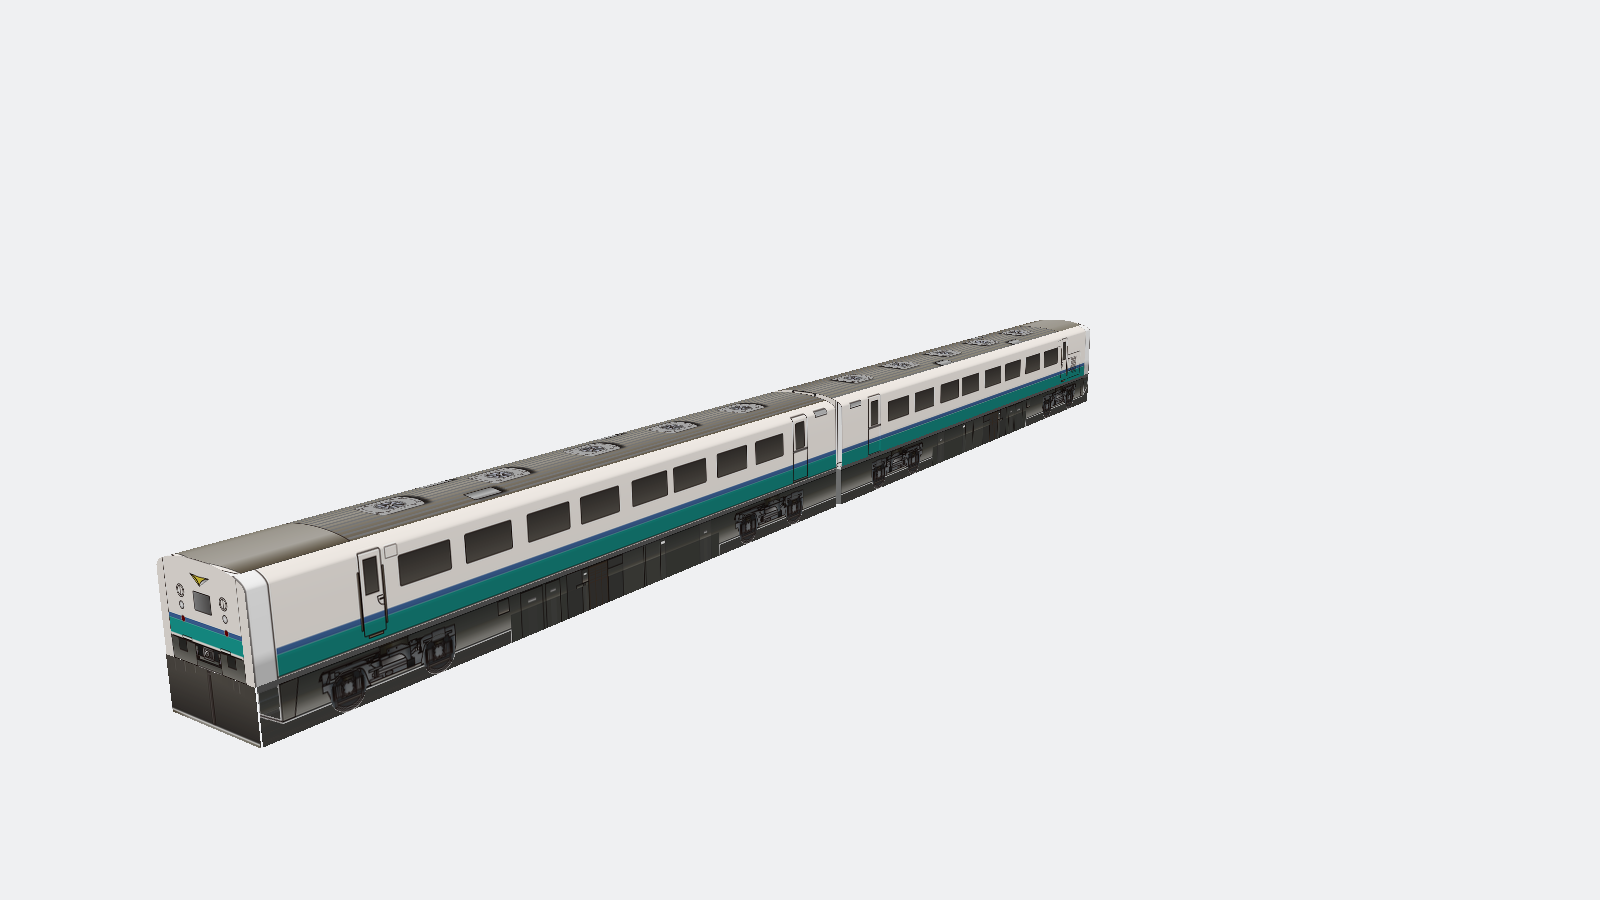
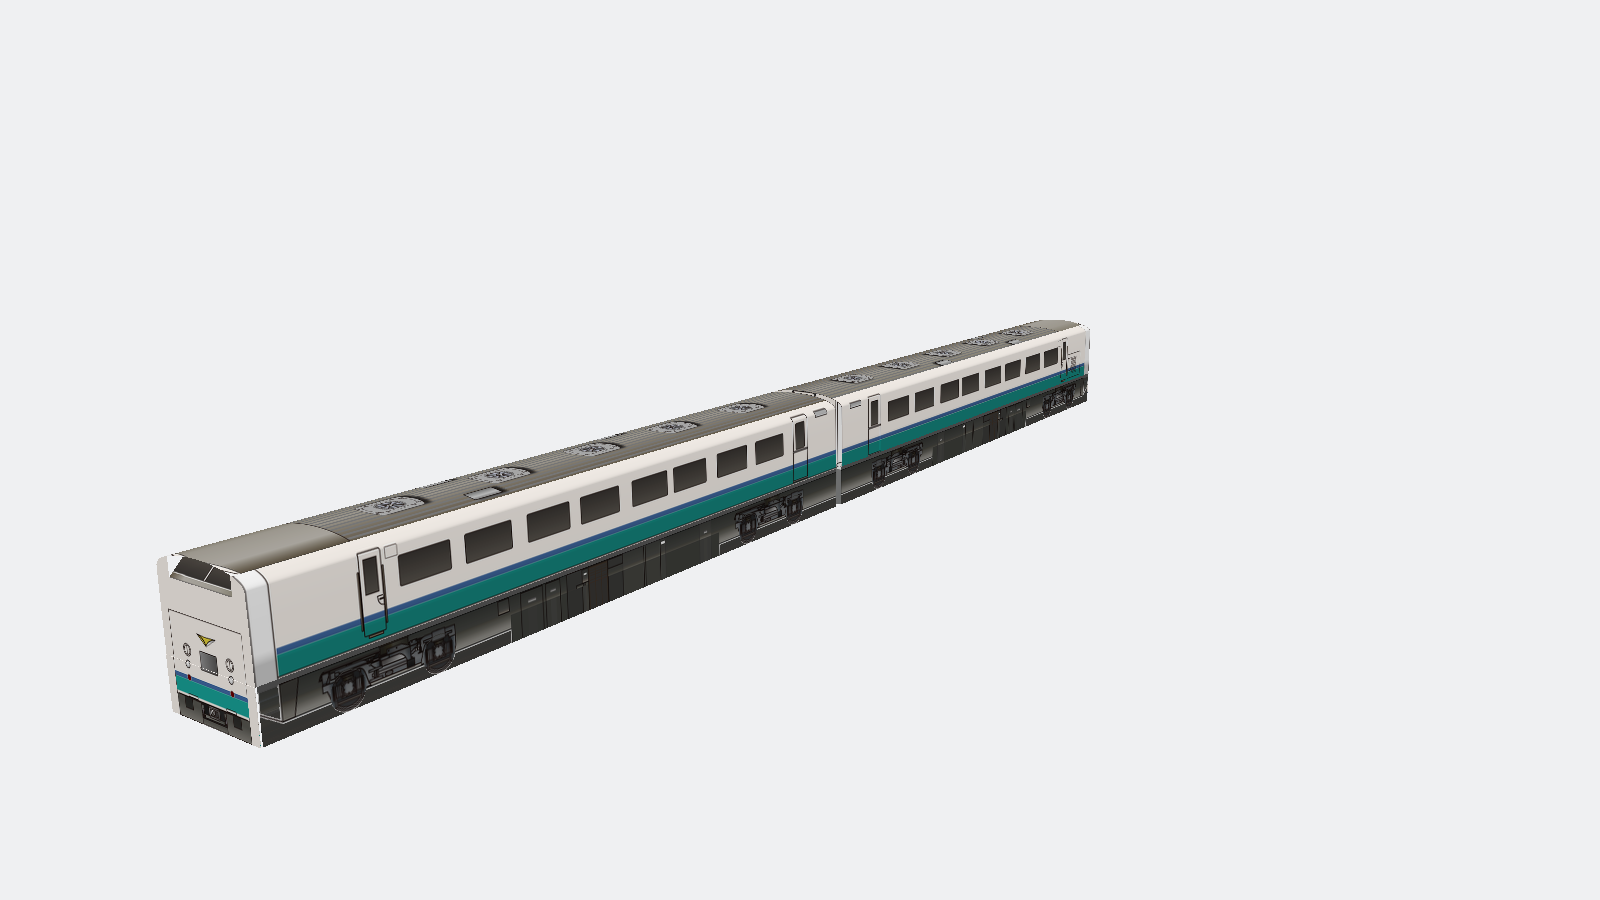
Refresh 485 card (windshield repair): 9cbcf25+e9f0214; post-fix images only
Windshield slope (43 deg, drawing crop) + face shifted down 1.23 m to ground (B-box); R5 + summary cards, shared images jr-east-485_r5_1.png (oblique wide) / r5_2.png (face close-up).

Changed region(s): [[0.0938, 0.6222, 0.1875, 0.84]]

diff --git a/mc-review-rework5-20261127/index.html b/mc-review-rework5-20261127/index.html
@@ -128,11 +128,11 @@ ul{margin:6px 0} li{font-size:14px;line-height:1.6} a{color:#93c5fd}
 <section class="card" id="car-30" data-num="30" data-slug="jr-east-485" data-orig="第一批 #105" data-status="pushed">
   <div class="chead"><span class="num">#30</span> <span class="orig">汇总页 #30 · 第一批 #105</span> <span class="slug">jr-east-485</span>
   <span class="badge pushed">✅ 已推</span></div>
-  <div class="pushline">✅ <b>已推</b>　提交 <code>cfb6ffa</code>（models-pipeline）</div><div class="cmeta">类别：其他：你这个司机端的这个贴图一看就不对的去图纸上面重新截重新搞结合现实中的图（第五轮）</div>
+  <div class="pushline">✅ <b>已推</b>　提交 <code>9cbcf25</code>、<code>e9f0214</code>（models-pipeline）</div><div class="cmeta">类别：其他：你这个司机端的这个贴图一看就不对的去图纸上面重新截重新搞结合现实中的图（第五轮）</div>
   <div class="cnote"><b>MC 返工原因：</b>其他：你这个司机端的这个贴图一看就不对的去图纸上面重新截重新搞结合现实中的图</div>
   <div class="cnote"><b>原始理由：</b>贴图颠倒</div>
   <div class="cnote"><b>根因：</b>R4 深蓝风挡带＋斜雨刮、擦黄三角、行先框上画深灰 ▼：风挡颜色错（实车是浅色玻璃）、雨刮斜穿玻璃、行先框空白灰、无红灯板。</div>
-  <div class="cnote"><b>修法：</b>司机面按 MC 14:12 确认垂直翻转＋去拉伸重做：图纸原图裁切后翻转一次再贴（灰顶带在下、黄▲在上），显示拉伸 21.7%→0%。</div>
+  <div class="cnote"><b>修法：</b>司机面按 MC 14:12 确认垂直翻转＋去拉伸重做：图纸原图裁切后翻转一次再贴（灰顶带在下、黄▲在上），显示拉伸 21.7%→0%。本次风挡修复：风挡玻璃按图纸梯形纸片裁切（x262–371、y325–377），贴于 43° 后倾斜面（y2.93–3.48，顶缘沿车顶拱形）；司机面整体下移 1.23 m、底边贴地（翻转保持，内容原封不动）；裙板盒按司机面重贴，青绿带＋灰带即下部前脸、贴到地面。</div>
   <div class="warnline">⚠ 司机面已按 MC 14:12 确认翻转（灰顶带在下、黄▲在上）；▲ 本身亦倒置成 ▼ 形，若要 ▲ 尖朝上须重画 ▲（红线禁程序画，须 MC 定夺）。去拉伸代价：脸内容占面宽 82%，两侧留奶油边。</div>
   <div class="cimg"><img loading="lazy" src="img/jr-east-485_r5_1.png" alt="jr-east-485 修后（本次重做）——斜视角" onerror="this.parentElement.classList.add('imgerr');this.outerHTML='<div class=\'noimg\'>图加载失败</div>'"><div class="cap">修后（本次重做）——斜视角</div></div>
   <div class="cev"><div class="cevlab">🔍 司机端端面</div><img loading="lazy" src="img/jr-east-485_r5_2.png" alt="jr-east-485 特写"></div>

diff --git a/mc-review-rework-all-20261127/index.html b/mc-review-rework-all-20261127/index.html
@@ -555,7 +555,7 @@ code{font-size:12px;word-break:break-all}
   <span class="badge ok">✅ 已推</span></div>
   <div class="cmeta">其他：司机端贴图错误（第五轮）</div>
   <div class="cquote">💬 MC 原话：贴图颠倒</div>
-  <div class="cinfo"><b>根因：</b>R4 深蓝风挡带＋斜雨刮、擦黄三角、行先框上画深灰 ▼：风挡颜色错（实车是浅色玻璃）、雨刮斜穿玻璃、行先框空白灰、无红灯板。<br><b>修法：</b>司机面按 MC 14:12 确认垂直翻转＋去拉伸重做：图纸原图裁切后翻转一次再贴（灰顶带在下、黄▲在上），显示拉伸 21.7%→0%。<br><b>提交：</b><code>cfb6ffa</code></div>
+  <div class="cinfo"><b>根因：</b>R4 深蓝风挡带＋斜雨刮、擦黄三角、行先框上画深灰 ▼：风挡颜色错（实车是浅色玻璃）、雨刮斜穿玻璃、行先框空白灰、无红灯板。<br><b>修法：</b>司机面按 MC 14:12 确认垂直翻转＋去拉伸重做：图纸原图裁切后翻转一次再贴（灰顶带在下、黄▲在上），显示拉伸 21.7%→0%。本次风挡修复：风挡玻璃按图纸梯形纸片裁切（x262–371、y325–377），贴于 43° 后倾斜面（y2.93–3.48，顶缘沿车顶拱形）；司机面整体下移 1.23 m、底边贴地（翻转保持，内容原封不动）；裙板盒按司机面重贴，青绿带＋灰带即下部前脸、贴到地面。<br><b>提交：</b><code>9cbcf25</code>、<code>e9f0214</code></div>
   
   <div class="cimg"><img loading="lazy" src="../mc-review-rework5-20261127/img/jr-east-485_r5_1.png" alt="jr-east-485 修后（本次重做）——斜视角" onerror="this.parentElement.classList.add('imgerr');this.outerHTML='<div class=\'noimg\'>图加载失败</div>'"><div class="ccap">修后（本次重做）——斜视角</div></div>
   <div class="cev"><div class="cevlab">🔍 司机端端面</div><img loading="lazy" src="../mc-review-rework5-20261127/img/jr-east-485_r5_2.png" alt="jr-east-485 特写"></div>
